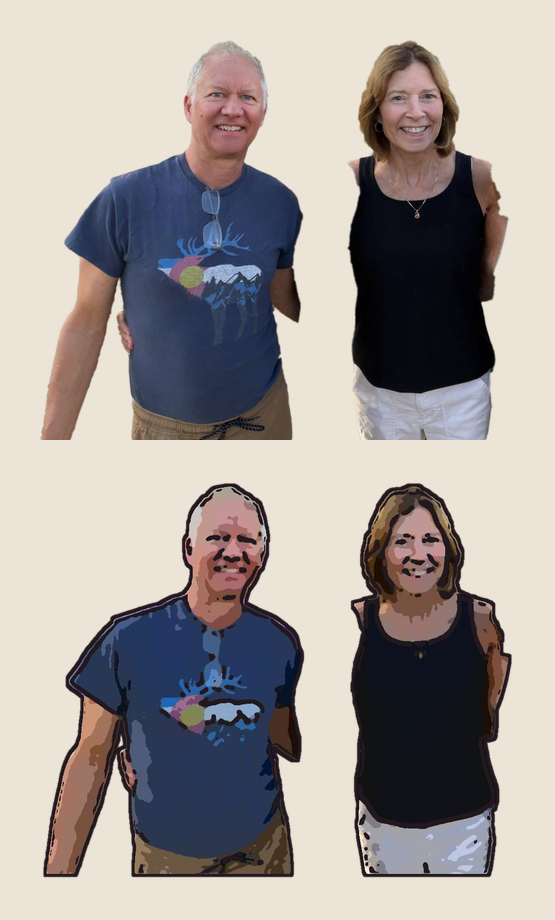
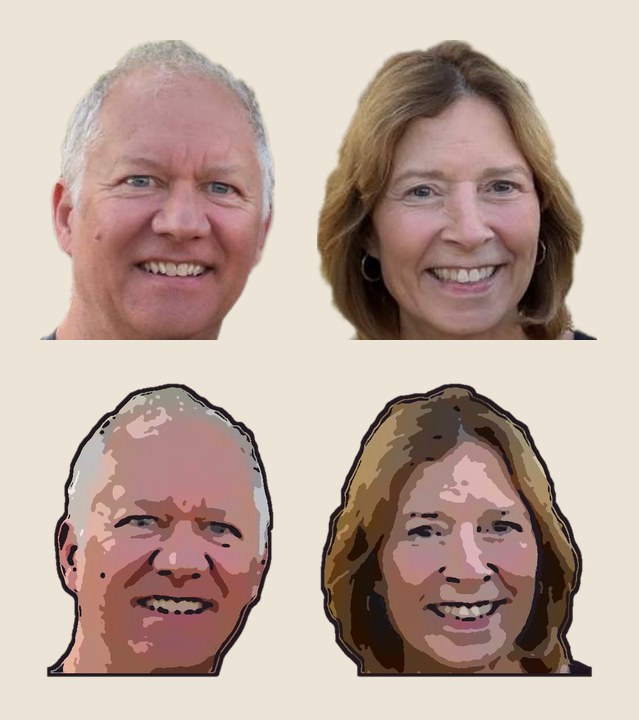
Crop the cartoon art to just the heads
The script now finds the neck from the silhouette and keeps only the
head, with HEAD_OVERRIDES for any cutout it gets wrong. Sprites are
128 px tall, and smoothing and line settings are retuned for faces.

Claude-Session: https://claude.ai/code/session_01TktpGdAMwEXXGVahbjaJRu

diff --git a/tools/cartoonize.py b/tools/cartoonize.py
@@ -1,10 +1,11 @@
 #!/usr/bin/env python3
-"""Turn the character cutouts into cartoon-style game art.
+"""Turn the character cutouts into cartoon head art for the game.
 
-Reads every transparent PNG in assets/characters/ and writes, for each one:
+Reads every transparent PNG in assets/characters/, crops it to the head and
+writes, for each one:
 
   assets/characters/cartoon/<name>.png         512 px tall master
-  assets/characters/cartoon/<name>_sprite.png  160 px tall in-game sprite
+  assets/characters/cartoon/<name>_sprite.png  128 px tall in-game sprite
 
 The look is a flat cel-shaded cartoon: smoothed skin and cloth, a few
 flat brightness bands, dark ink lines on strong edges and a thick
@@ -30,15 +31,52 @@ CHAR_DIR = ROOT / "assets" / "characters"
 OUT_DIR = CHAR_DIR / "cartoon"
 
 MASTER_HEIGHT = 512
-SPRITE_HEIGHT = 160
-WORK_HEIGHT = 768          # resolution the filters run at
-TONE_BANDS = 7             # flat brightness bands
+SPRITE_HEIGHT = 128
+WORK_HEIGHT = 512          # resolution the filters run at
+TONE_BANDS = 6             # flat brightness bands
 INK = (34, 24, 30)         # line and outline colour
 OUTLINE_PX = 6             # silhouette outline at WORK_HEIGHT
-EDGE_THRESHOLD = 5.0       # higher means fewer interior lines
+EDGE_THRESHOLD = 7.0       # higher means fewer interior lines
 LINE_SIGMA = 3.0           # size of features that get a line
-SMOOTH_PASSES = 2
+SMOOTH_PASSES = 3
 SATURATION_BOOST = 1.15
+NECK_JUMP = 1.12           # silhouette widening that marks the shoulders
+NECK_KEEP = 0.0            # neck kept below the head, as a share of head height
+
+# Hand-picked head boxes (left, top, right, bottom in source pixels) for any
+# cutout where the automatic neck finder gets it wrong.
+HEAD_OVERRIDES = {}
+
+
+def find_head(alpha):
+    """Box around the head: from the top of the silhouette down to the neck.
+
+    Walks down the rows, tracking the narrowest width seen since the widest
+    part of the head, and stops where the silhouette suddenly widens into
+    the shoulders.
+    """
+    a = np.asarray(alpha) >= 128
+    rows = np.flatnonzero(a.any(axis=1))
+    top = rows[0]
+    widths = a.sum(axis=1)
+    widest = narrowest = 0
+    neck = None
+    for y in range(top, top + len(a) // 2):
+        w = widths[y]
+        if narrowest == 0:
+            widest = max(widest, w)
+            if w < widest * 0.95:
+                narrowest = w
+        elif w > narrowest * NECK_JUMP:
+            neck = y
+            break
+        else:
+            narrowest = min(narrowest, w)
+    if neck is None:
+        raise SystemExit("couldn't find the neck; add a HEAD_OVERRIDES entry")
+    bottom = neck + round((neck - top) * NECK_KEEP)
+    xs = np.flatnonzero(a[top:bottom].any(axis=0))
+    return xs[0], top, xs[-1] + 1, bottom
 
 
 def clean_alpha(alpha):
@@ -104,10 +142,14 @@ def ink_lines(rgb, mask):
     return Image.composite(lines, Image.new("L", lines.size, 0), inner)
 
 
-def cartoonize(src):
+def head_crop(src):
     img = Image.open(src).convert("RGBA")
-    bbox = img.getchannel("A").point(lambda v: 255 if v >= 128 else 0).getbbox()
-    img = img.crop(bbox)
+    box = HEAD_OVERRIDES.get(src.stem) or find_head(img.getchannel("A"))
+    return img.crop(box)
+
+
+def cartoonize(src):
+    img = head_crop(src)
 
     scale = WORK_HEIGHT / img.height
     img = img.resize((round(img.width * scale), WORK_HEIGHT), Image.Resampling.LANCZOS)
@@ -141,8 +183,8 @@ def fit_height(img, h):
 
 
 def preview_sheet(pairs, path):
-    """Originals on top, cartoon versions below, on a neutral background."""
-    h = 400
+    """Original heads on top, cartoon versions below, on a neutral background."""
+    h = 300
     cols = []
     for orig, toon in pairs:
         o = fit_height(orig, h)
@@ -176,7 +218,7 @@ def main():
         toon = cartoonize(src)
         fit_height(toon, MASTER_HEIGHT).save(OUT_DIR / f"{src.stem}.png", optimize=True)
         fit_height(toon, SPRITE_HEIGHT).save(OUT_DIR / f"{src.stem}_sprite.png", optimize=True)
-        pairs.append((Image.open(src).convert("RGBA"), toon))
+        pairs.append((head_crop(src), toon))
         print("wrote", OUT_DIR.relative_to(ROOT) / f"{src.stem}.png")
 
     if args.preview:

diff --git a/README.md b/README.md
@@ -13,9 +13,9 @@ assets/
   characters/
     bryan.png    character cutout (transparent PNG)
     jane.png     character cutout (transparent PNG)
-    cartoon/     cartoon game art made from the cutouts (generated)
+    cartoon/     cartoon head art made from the cutouts (generated)
       bryan.png, jane.png                 512 px tall
-      bryan_sprite.png, jane_sprite.png   160 px tall, for the game
+      bryan_sprite.png, jane_sprite.png   128 px tall, for the game
       preview.png                         before/after sheet
     source/      original photos and crops (not committed, see .gitignore)
 tools/
@@ -31,7 +31,7 @@ python3 tools/cartoonize.py --preview
 
 The output is deterministic. Tweak the look with the constants at the top of
 `tools/cartoonize.py` (outline thickness, number of shading bands, line
-detail) and run it again.
+detail, where the head crop stops) and run it again.
 
 ## Running
 
